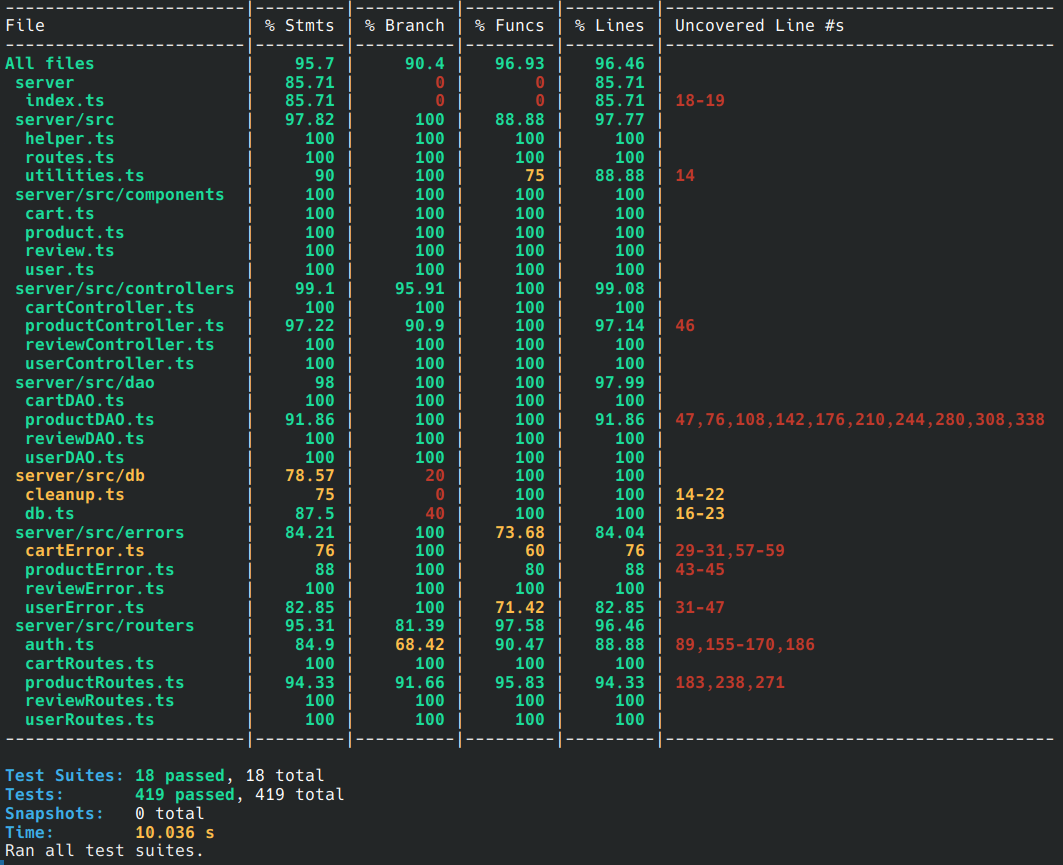
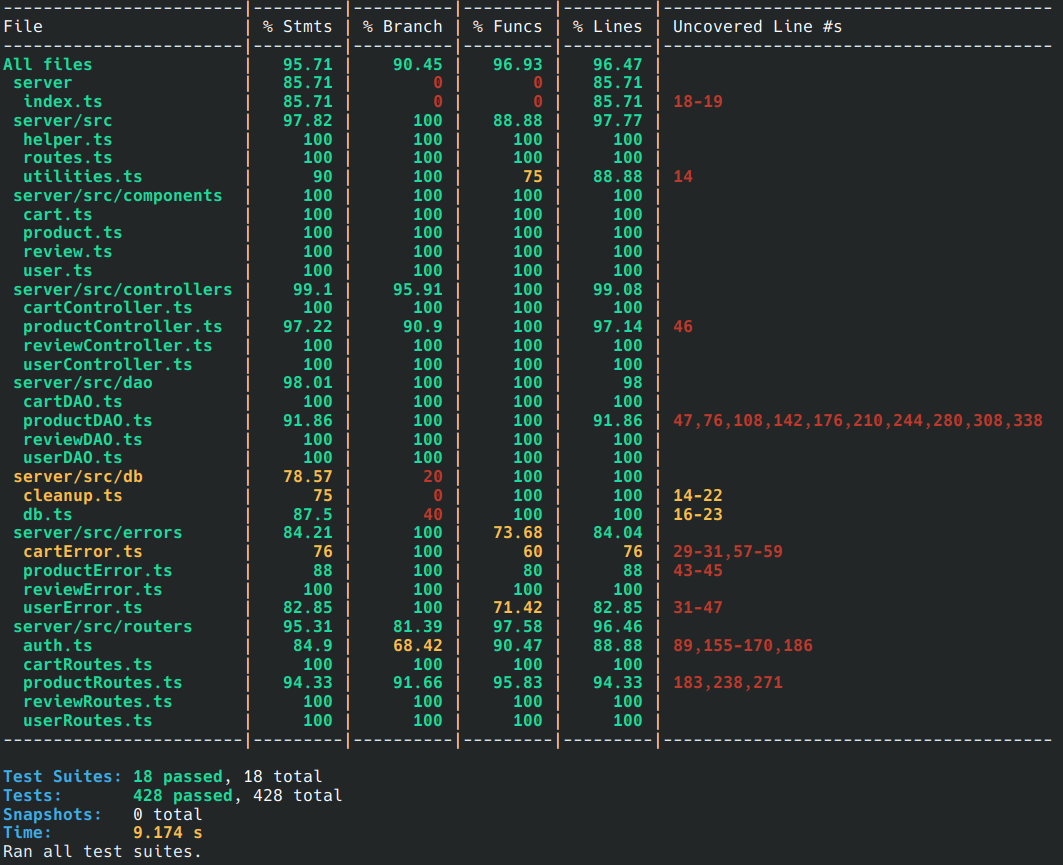
Updated test report with user tests

Changed region(s): [[0.0, 0.0, 0.9934, 1.0]]

diff --git a/code/server/test_unit/controller_tests/user.test.ts b/code/server/test_unit/controller_tests/user.test.ts
@@ -348,7 +348,7 @@ describe("Delete user by username", () => {
   });
 });
 
-describe("Delete user by username", () => {
+describe("Delete all users", () => {
   beforeEach(() => {
     userController = new UserController();
   });

diff --git a/TestReport.md b/TestReport.md
@@ -37,13 +37,48 @@ The goal of this document is to explain how the application was tested, detailin
 
 # Tests
 
-<in the table below list the test cases defined For each test report the object tested, the test level (API, integration, unit) and the technique used to define the test case (BB/ eq partitioning, BB/ boundary, WB/ statement coverage, etc)> <split the table if needed>
-
 ## User Unit Tests
 
-|   Test case name    | Object(s) tested | Test level |     Technique used     |
-| :-----------------: | :--------------: | :--------: | :--------------------: |
-| User authentication |     UserDAO      |    Unit    | WB/ statement coverage |
+|     Test case name      | Object(s) tested | Test level | Technique used |
+| :---------------------: | :--------------: | :--------: | :------------: |
+|   User authentication   |     UserDAO      |    Unit    |       WB       |
+|     Create account      |     UserDAO      |    Unit    |       WB       |
+|  Get user by username   |     UserDAO      |    Unit    |       WB       |
+|      Get all users      |     UserDAO      |    Unit    |       WB       |
+|    Get users by role    |     UserDAO      |    Unit    |       WB       |
+| Delete user by username |     UserDAO      |    Unit    |       WB       |
+|    Delete all users     |     UserDAO      |    Unit    |       WB       |
+|    Update user info     |     UserDAO      |    Unit    |       WB       |
+|                         |                  |            |                |
+|     Create new user     |  UserController  |    Unit    |       WB       |
+|        Get users        |  UserController  |    Unit    |       WB       |
+|    Get users by role    |  UserController  |    Unit    |       WB       |
+|  Get user by username   |  UserController  |    Unit    |       WB       |
+| Delete user by username |  UserController  |    Unit    |       WB       |
+|    Delete all users     |  UserController  |    Unit    |       WB       |
+| Update user information |  UserController  |    Unit    |       WB       |
+|                         |                  |            |                |
+|         POST /          |    UserRoutes    |    Unit    |       WB       |
+|          GET /          |    UserRoutes    |    Unit    |       WB       |
+|    GET /roles/:role     |    UserRoutes    |    Unit    |       WB       |
+|     GET /:username      |    UserRoutes    |    Unit    |       WB       |
+|    DELETE /:username    |    UserRoutes    |    Unit    |       WB       |
+|        DELETE /         |    UserRoutes    |    Unit    |       WB       |
+|    PATCH /:username     |    UserRoutes    |    Unit    |       WB       |
+
+## User Integration Tests
+
+|      Test case name      | Object(s) tested | Test level | Technique used |
+| :----------------------: | :--------------: | :--------: | :------------: |
+|       POST /users        |    UserRoutes    |    API     |       BB       |
+| DELETE /sessions/current |    UserRoutes    |    API     |       BB       |
+|      POST /sessions      |    UserRoutes    |    API     |       BB       |
+|        GET /users        |    UserRoutes    |    API     |       BB       |
+|  GET /users/roles/:role  |    UserRoutes    |    API     |       BB       |
+|   GET /users/:username   |    UserRoutes    |    API     |       BB       |
+|  PATCH /users/:username  |    UserRoutes    |    API     |       BB       |
+| DELETE /users/:username  |    UserRoutes    |    API     |       BB       |
+|      DELETE /users       |    UserRoutes    |    API     |       BB       |
 
 ## Cart Unit Tests
 
@@ -61,44 +96,42 @@ The goal of this document is to explain how the application was tested, detailin
 | Delete all products from a cart |     CartDAO      |    Unit    | WB |
 | Check availability of a product in cart |     CartDAO      |    Unit    | WB |
 | Checkout current cart |     CartDAO      |    Unit    | WB |
- | | | | 
- | Add to cart |     CartController      |    Unit    | WB |
- | Get cart |     CartController      |    Unit    | WB |
- | Checkout cart |     CartController      |    Unit    | WB |
- | Get customer carts |     CartController      |    Unit    | WB |
- | Remove product from cart |     CartController      |    Unit    | WB |
- | Clear cart |     CartController      |    Unit    | WB |
- | Delete all carts |     CartController      |    Unit    | WB |
- | Get all carts |     CartController      |    Unit    | WB |
- | | | |
- | GET / | CartRoute | Unit | WB |
- | POST / | CartRoute | Unit | WB |
- | PATCH / | CartRoute | Unit | WB |
- | GET /history | CartRoute | Unit | WB |
- | DELETE /products/:model | CartRoute | Unit | WB |
- | DELETE /current | CartRoute | Unit | WB |
-| DELETE / | CartRoute | Unit | WB |
-| GET /all | CartRoute | Unit | WB |
+| | | ||
+| Add to cart |     CartController      |    Unit    | WB |
+| Get cart |     CartController      |    Unit    | WB |
+| Checkout cart |     CartController      |    Unit    | WB |
+| Get customer carts |     CartController      |    Unit    | WB |
+| Remove product from cart |     CartController      |    Unit    | WB |
+| Clear cart |     CartController      |    Unit    | WB |
+| Delete all carts |     CartController      |    Unit    | WB |
+| Get all carts |     CartController      |    Unit    | WB |
+| | | ||
+| GET / | CartRoutes | Unit | WB |
+| POST / | CartRoutes | Unit | WB |
+| PATCH / | CartRoutes | Unit | WB |
+| GET /history | CartRoutes | Unit | WB |
+| DELETE /products/:model | CartRoutes | Unit | WB |
+| DELETE /current | CartRoutes | Unit | WB |
+| DELETE / | CartRoutes | Unit | WB |
+| GET /all | CartRoutes | Unit | WB |
 
 ## Cart Integration Tests
 
 |   Test case name    | Object(s) tested | Test level |     Technique used     |
 | :-----------------: | :--------------: | :--------: | :--------------------: |
-| GET /ezelectronics/carts |     CartRoute      |    API    | BB |
-| GET /ezelectronics/carts/history |     CartRoute      |    API    | BB |
-| POST /ezelectronics/carts |     CartRoute      |    API    | BB |
-| PATCH /ezelectronics/carts |     CartRoute      |    API    | BB |
-| DELETE /ezelectronics/carts/products/:model |     CartRoute      |    API    | BB |
-| DELETE /ezelectronics/carts/current |     CartRoute      |    API    | BB |
-| GET /ezelectronics/carts/all |     CartRoute      |    API    | BB |
-| DELETE /ezelectronics/carts |     CartRoute      |    API    | BB |
+| GET /ezelectronics/carts |     CartRoutes     |    API    | BB |
+| GET /ezelectronics/carts/history |     CartRoutes     |    API    | BB |
+| POST /ezelectronics/carts |     CartRoutes     |    API    | BB |
+| PATCH /ezelectronics/carts |     CartRoutes     |    API    | BB |
+| DELETE /ezelectronics/carts/products/:model |     CartRoutes     |    API    | BB |
+| DELETE /ezelectronics/carts/current |     CartRoutes     |    API    | BB |
+| GET /ezelectronics/carts/all |     CartRoutes     |    API    | BB |
+| DELETE /ezelectronics/carts |     CartRoutes     |    API    | BB |
 
 
 # Coverage
 
 ## Coverage of FR
-
-<Report in the following table the coverage of functional requirements and scenarios(from official requirements) >
 
 | Functional Requirement or scenario | Test(s) |
 | :--------------------------------: | :-----: |
